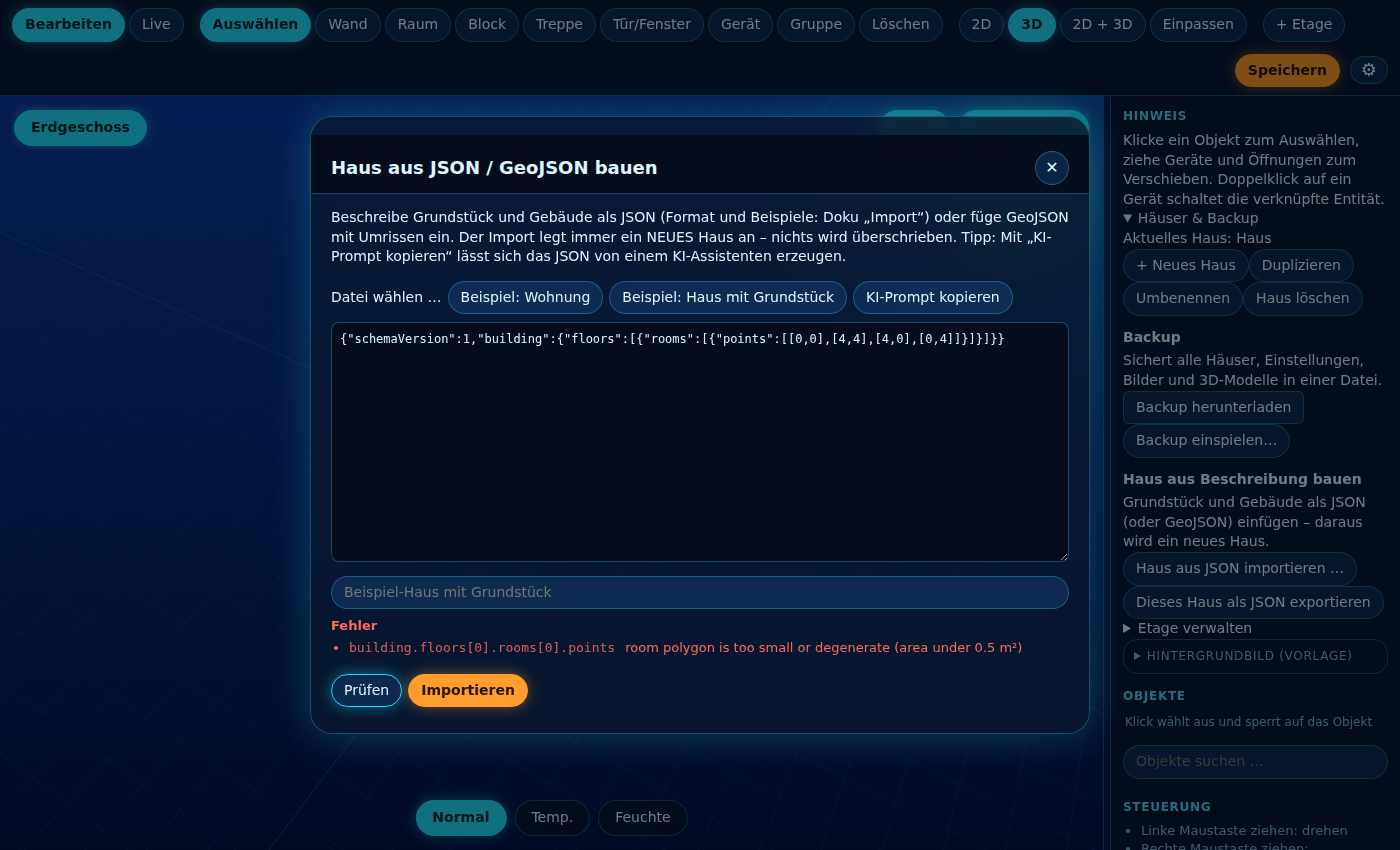
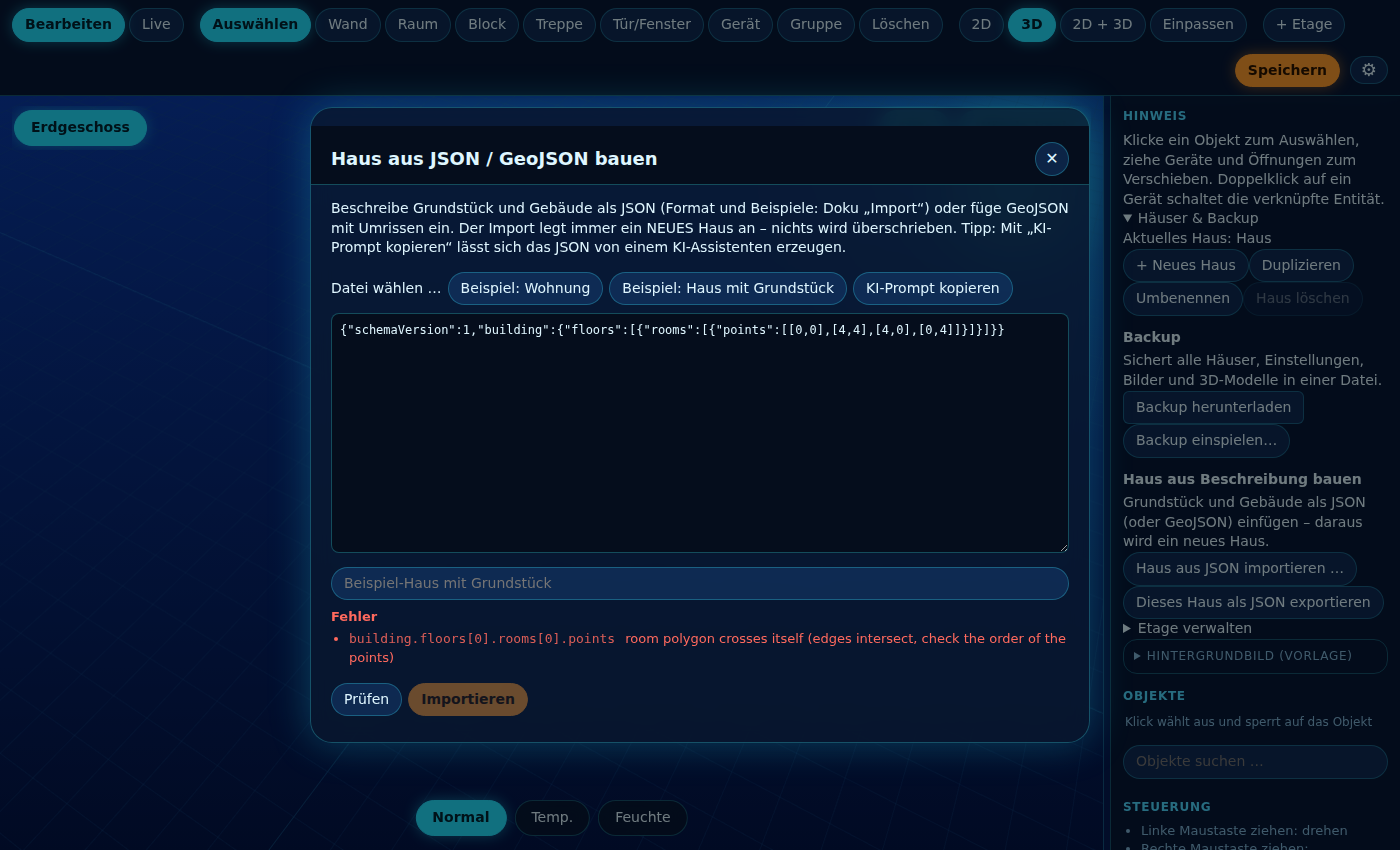
Polish: professional import guide, README section, clearer errors, disabled buttons (3.0.1)
Claude-Session: https://claude.ai/code/session_01Co8i9MW1FxCgsyBxKaj1v4

Changed region(s): [[0.215, 0.1224, 0.7986, 0.3976], [0.215, 0.6424, 0.7679, 0.8565], [0.8907, 0.3365, 0.9521, 0.3671]]

diff --git a/demo/floorplan3d-demo.html b/demo/floorplan3d-demo.html
@@ -32,6 +32,7 @@ button, select, input { font: inherit; color: var(--text); background: var(--fie
 button { cursor: pointer; }
 button:hover { border-color: var(--accent); }
 button.active { background: var(--accent); border-color: var(--accent); color: var(--accent-text); font-weight: 600; }
+button:disabled { opacity: .4; cursor: not-allowed; box-shadow: none !important; }
 button.primary { background: var(--ok); border-color: var(--ok); color: #fff; }
 button.icon { padding: 4px 10px; font-size: 18px; line-height: 1; }
 #status { position: fixed; left: 12px; bottom: 52px; z-index: 30; color: var(--text, #eaf7ff); font-size: 12px; padding: 4px 12px; border-radius: 999px; background: rgba(3, 21, 71, .72); border: 1px solid rgba(120,200,255,.35); pointer-events: none; }

diff --git a/floorplan3d/rootfs/app/static/style.css b/floorplan3d/rootfs/app/static/style.css
@@ -26,6 +26,7 @@ button, select, input { font: inherit; color: var(--text); background: var(--fie
 button { cursor: pointer; }
 button:hover { border-color: var(--accent); }
 button.active { background: var(--accent); border-color: var(--accent); color: var(--accent-text); font-weight: 600; }
+button:disabled { opacity: .4; cursor: not-allowed; box-shadow: none !important; }
 button.primary { background: var(--ok); border-color: var(--ok); color: #fff; }
 button.icon { padding: 4px 10px; font-size: 18px; line-height: 1; }
 #status { position: fixed; left: 12px; bottom: 52px; z-index: 30; color: var(--text, #eaf7ff); font-size: 12px; padding: 4px 12px; border-radius: 999px; background: rgba(3, 21, 71, .72); border: 1px solid rgba(120,200,255,.35); pointer-events: none; }

diff --git a/floorplan3d/rootfs/app/importer.py b/floorplan3d/rootfs/app/importer.py
@@ -113,11 +113,11 @@ def _polygon(rep: Report, path: str, value, name="polygon", min_area=0.5):
     poly = [[round(float(p[0]), 3), round(float(p[1]), 3)] for p in value]
     if len(poly) > 3 and poly[0] == poly[-1]:
         poly.pop()                                   # a repeated closing point is fine
+    if _self_intersects(poly):
+        rep.error(path, f"{name} crosses itself (edges intersect, check the order of the points)")
+        return None
     if abs(_area(poly)) < min_area:
         rep.error(path, f"{name} is too small or degenerate (area under {min_area} m²)")
-        return None
-    if _self_intersects(poly):
-        rep.error(path, f"{name} crosses itself")
         return None
     return poly
 

diff --git a/docs/IMPORT.md b/docs/IMPORT.md
@@ -1,6 +1,18 @@
-# Grundstück / Grundriss importieren (JSON-Schnittstelle)
+<div align="center">
 
-Mit dem Import baust du aus einer kleinen JSON-Beschreibung (Grundstück, Raumpolygone, Fenster, Türen, Geräte) automatisch ein **neues Haus** im 3D Floorplan. Dein bestehendes Haus bleibt unberührt – der Import legt immer ein neues an (max. 20 Häuser).
+# 📥 Haus per JSON importieren
+
+**Grundstück, Räume, Fenster, Türen und Geräte beschreiben – das Haus entsteht automatisch.**
+
+<img src="img/import-4-whole-house.png" alt="Importiertes Haus mit Grundstück in der 3D-Ansicht" width="820">
+
+</div>
+
+
+> [!NOTE]
+> Der Import legt **immer ein neues Haus** an und überschreibt nie etwas (max. 20 Häuser).
+
+Mit dem Import baust du aus einer kleinen JSON-Beschreibung (Grundstück, Raumpolygone, Fenster, Türen, Geräte) automatisch ein **neues Haus** im 3D Floorplan.
 
 Du kannst die JSON von Hand schreiben, von einer **KI** erzeugen lassen, aus **GeoJSON** (z. B. Katasterdaten/OpenStreetMap) ableiten oder aus einem vorhandenen Haus **exportieren**.
 
@@ -79,7 +91,22 @@ Fertige Beispiele zum Herunterladen: [`docs/examples/flat.json`](examples/flat.j
 
 `{ "preset": "window2", "at": [x, z] }` – die Öffnung rastet an der **nächstgelegenen Wand** ein. Liegt keine Wand in der Nähe, wird sie mit Warnung übersprungen; Überlappungen und Positionen zu nah an Ecken werden korrigiert bzw. gemeldet.
 
-Presets: `door`, `doorEntry`, `doorGlass`, `doorDouble`, `doorSlide`, `doorOpen`, `window`, `window2`, `window3`, `windowTall`, `windowBath`, `windowFixed`.
+
+| Preset | Art | Stil | Breite × Höhe | Brüstung |
+|---|---|---|---|---|
+| `door` | Tür | single | 0.9 × 2.05 m | 0 m |
+| `doorEntry` | Tür | single | 1.1 × 2.15 m | 0 m |
+| `doorGlass` | Tür | glass | 0.9 × 2.05 m | 0 m |
+| `doorDouble` | Tür | double | 1.6 × 2.05 m | 0 m |
+| `doorSlide` | Tür | sliding | 1.8 × 2.1 m | 0 m |
+| `doorOpen` | Tür | open | 1.0 × 2.05 m | 0 m |
+| `window` | Fenster | single | 1.0 × 1.2 m | 0.9 m |
+| `window2` | Fenster | double | 1.8 × 1.2 m | 0.9 m |
+| `window3` | Fenster | triple | 2.4 × 1.2 m | 0.9 m |
+| `windowTall` | Fenster | double | 1.8 × 2.1 m | 0 m |
+| `windowBath` | Fenster | single | 0.6 × 0.6 m | 1.5 m |
+| `windowFixed` | Fenster | fixed | 1.6 × 1.4 m | 0.6 m |
+
 Überschreibbar: `width`, `height`, `sill`, `style`, `entity` (z. B. Fenstersensor), `name`. Statt `preset` geht auch `"type": "door"|"window"`.
 
 ### Geräte & Möbel
@@ -93,7 +120,8 @@ Reihenfolge ist egal: Keller zuerst, Dachgeschoss/Dach zuletzt. Die Dachform ste
 
 ## API
 
-Alle Aufrufe brauchen Schreibrechte (Home-Assistant-Admin bzw. Editor) und laufen über Ingress oder den direkten Port.
+> [!IMPORTANT]
+> Alle Aufrufe brauchen Schreibrechte (Home-Assistant-Admin bzw. Editor) und laufen über Ingress oder den direkten Port.
 
 ```bash
 # nur prüfen, nichts anlegen
@@ -140,6 +168,17 @@ Tipps:
 | Katasterumriss verwenden | GeoJSON einfügen (Gebäude + Grundstück), importieren, Räume im Editor einzeichnen |
 | Haus sichern/teilen | Exportieren, Datei weitergeben, beim Empfänger importieren |
 | Per Skript/CI | `POST /api/import` mit curl (siehe oben) |
+
+## Fehlermeldungen
+
+| Meldung | Bedeutung | Lösung |
+|---|---|---|
+| `crosses itself` | Raumkanten überschneiden sich (Bow-Tie) | Punkte im Umlaufsinn angeben |
+| `too small or degenerate` | Fläche unter 0,5 m² | Maße prüfen (Meter, nicht cm) |
+| `no wall near …` | Öffnung liegt weit von jeder Wand | `at` auf die Wandlinie setzen |
+| `overlaps` | Zwei Öffnungen an derselben Stelle | Position oder Breite ändern |
+| `unknown device type` | Typ nicht in der Bibliothek | Typ aus dem Schema wählen |
+| `schemaVersion` fehlt | Nur Warnung | `"schemaVersion": 1` ergänzen |
 
 ## Grenzen & Fehlersuche
 

diff --git a/README.md b/README.md
@@ -62,6 +62,19 @@ What that means for you: the code is automatically tested (backend and browser t
 </tr>
 </table>
 
+### 📥 Import a house from JSON, AI or GeoJSON
+
+Describe plot, rooms, windows and devices as JSON (write it by hand, let an AI generate it, or convert GeoJSON outlines) and get a **new house**: walls are derived from the rooms, openings snap to walls, floors, roof, plot boundary and garden are built. Check first, import after a clean check, errors name the exact JSON path.
+
+<table>
+<tr>
+<td width="50%"><img src="docs/img/import-1-dialog.png" alt="Import dialog"><br><sub><b>Import dialog</b>: examples, check, AI prompt</sub></td>
+<td width="50%"><img src="docs/img/import-5-plan2d.png" alt="Plan with plot boundary"><br><sub><b>Result</b>: plot boundary in the plan</sub></td>
+</tr>
+</table>
+
+API: `POST /api/import` · `GET /api/export/property` · `GET /api/import/schema`. Full guide: **[docs/IMPORT.md](docs/IMPORT.md)**
+
 ### 🪑 Furnish it
 
 - **Furniture library with previews**, search and categories (Living, Kitchen, Bath, Bedroom, Office, Lighting, Tech, Outdoor, Decor). The search understands everyday names ("Fernseher", "Couch" ...)

diff --git a/CHANGELOG.md b/CHANGELOG.md
@@ -4,6 +4,11 @@ All notable changes are documented here. The format follows [Keep a Changelog](h
 
 ## [Unreleased]
 
+## [3.0.1] - 2026-10-01
+### Changed
+- Import guide redesigned: screenshots, preset table, error table, callouts; import section with pictures in the README
+- Import: a polygon whose edges cross is now reported as such (instead of "too small"); disabled buttons look disabled
+
 ## [3.0.0] - 2026-10-01
 ### Added
 - **Import a property by JSON**: *Häuser → Grundriss importieren (JSON)* builds a **new house** from a description of plot, rooms, windows/doors and devices. Walls are derived from the room polygons (shared edges become one inner wall, outer walls are thicker), openings snap to the nearest wall, floors/basement/roof are ordered automatically. Check first, import only after a clean check; errors name the exact JSON path

diff --git a/floorplan3d/CHANGELOG.md b/floorplan3d/CHANGELOG.md
@@ -4,6 +4,11 @@ All notable changes are documented here. The format follows [Keep a Changelog](h
 
 ## [Unreleased]
 
+## [3.0.1] - 2026-10-01
+### Changed
+- Import guide redesigned: screenshots, preset table, error table, callouts; import section with pictures in the README
+- Import: a polygon whose edges cross is now reported as such (instead of "too small"); disabled buttons look disabled
+
 ## [3.0.0] - 2026-10-01
 ### Added
 - **Import a property by JSON**: *Häuser → Grundriss importieren (JSON)* builds a **new house** from a description of plot, rooms, windows/doors and devices. Walls are derived from the room polygons (shared edges become one inner wall, outer walls are thicker), openings snap to the nearest wall, floors/basement/roof are ordered automatically. Check first, import only after a clean check; errors name the exact JSON path
